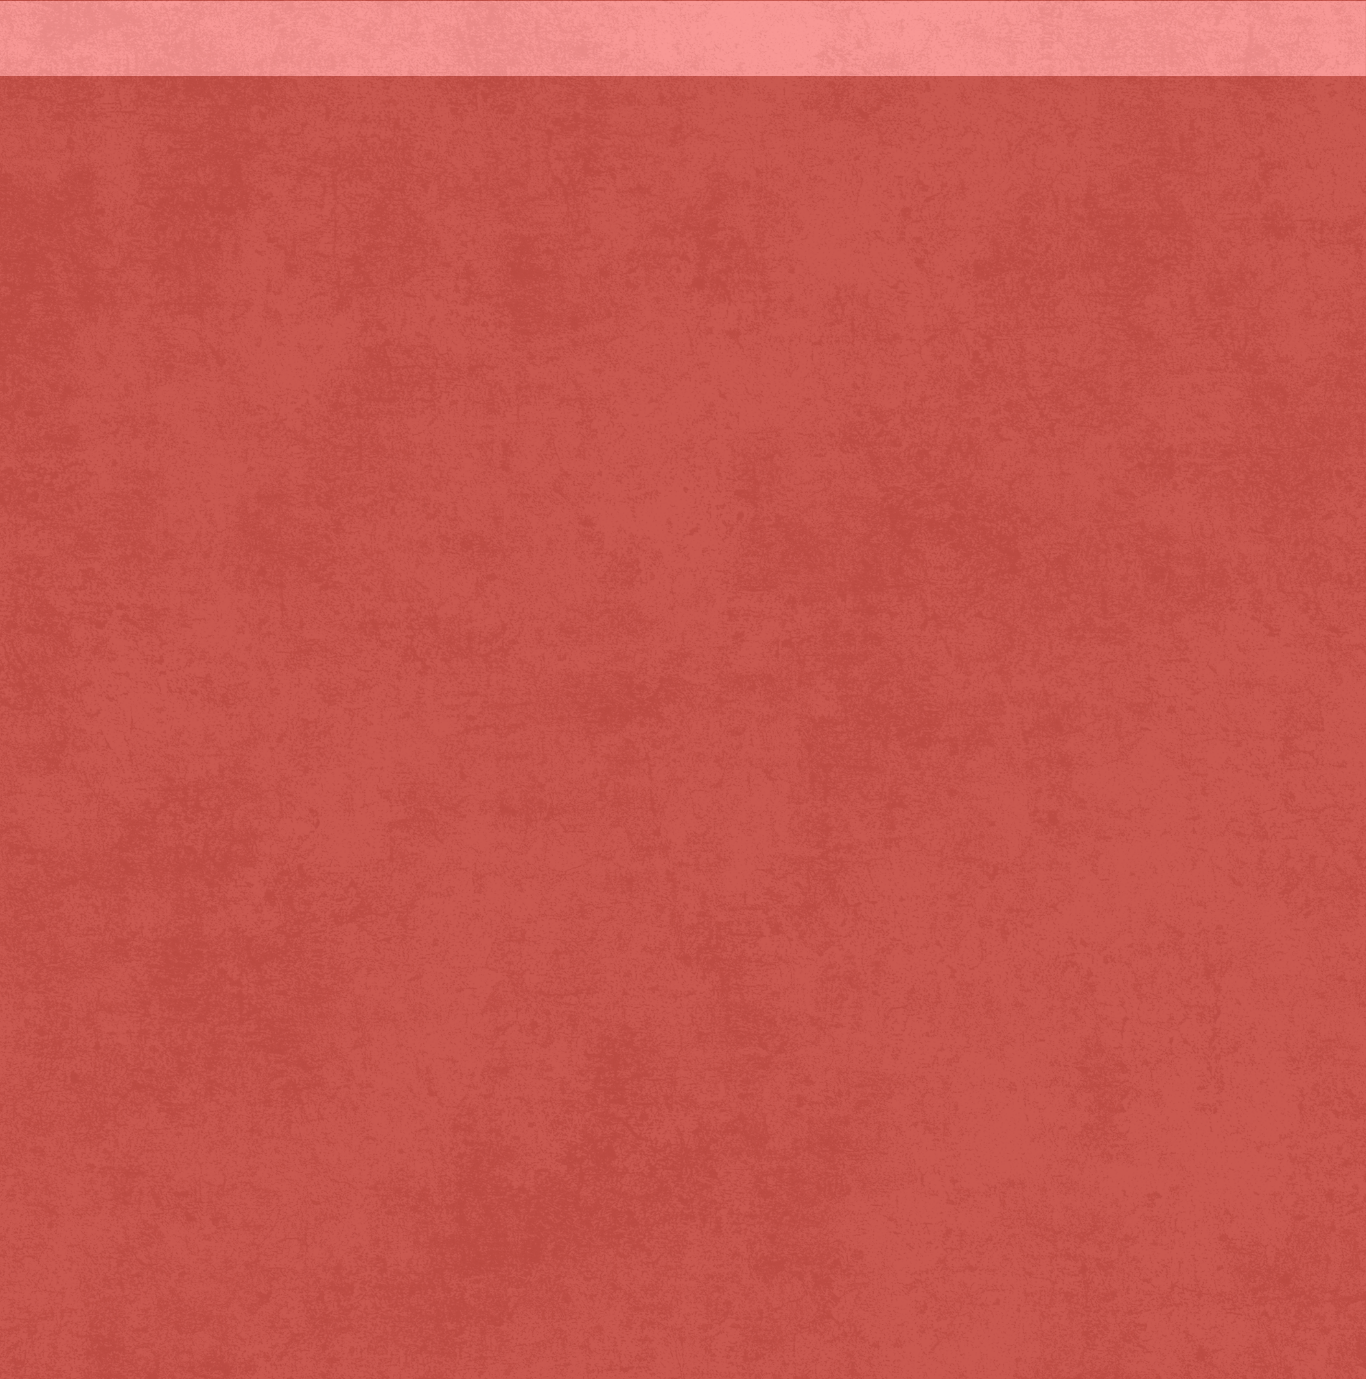
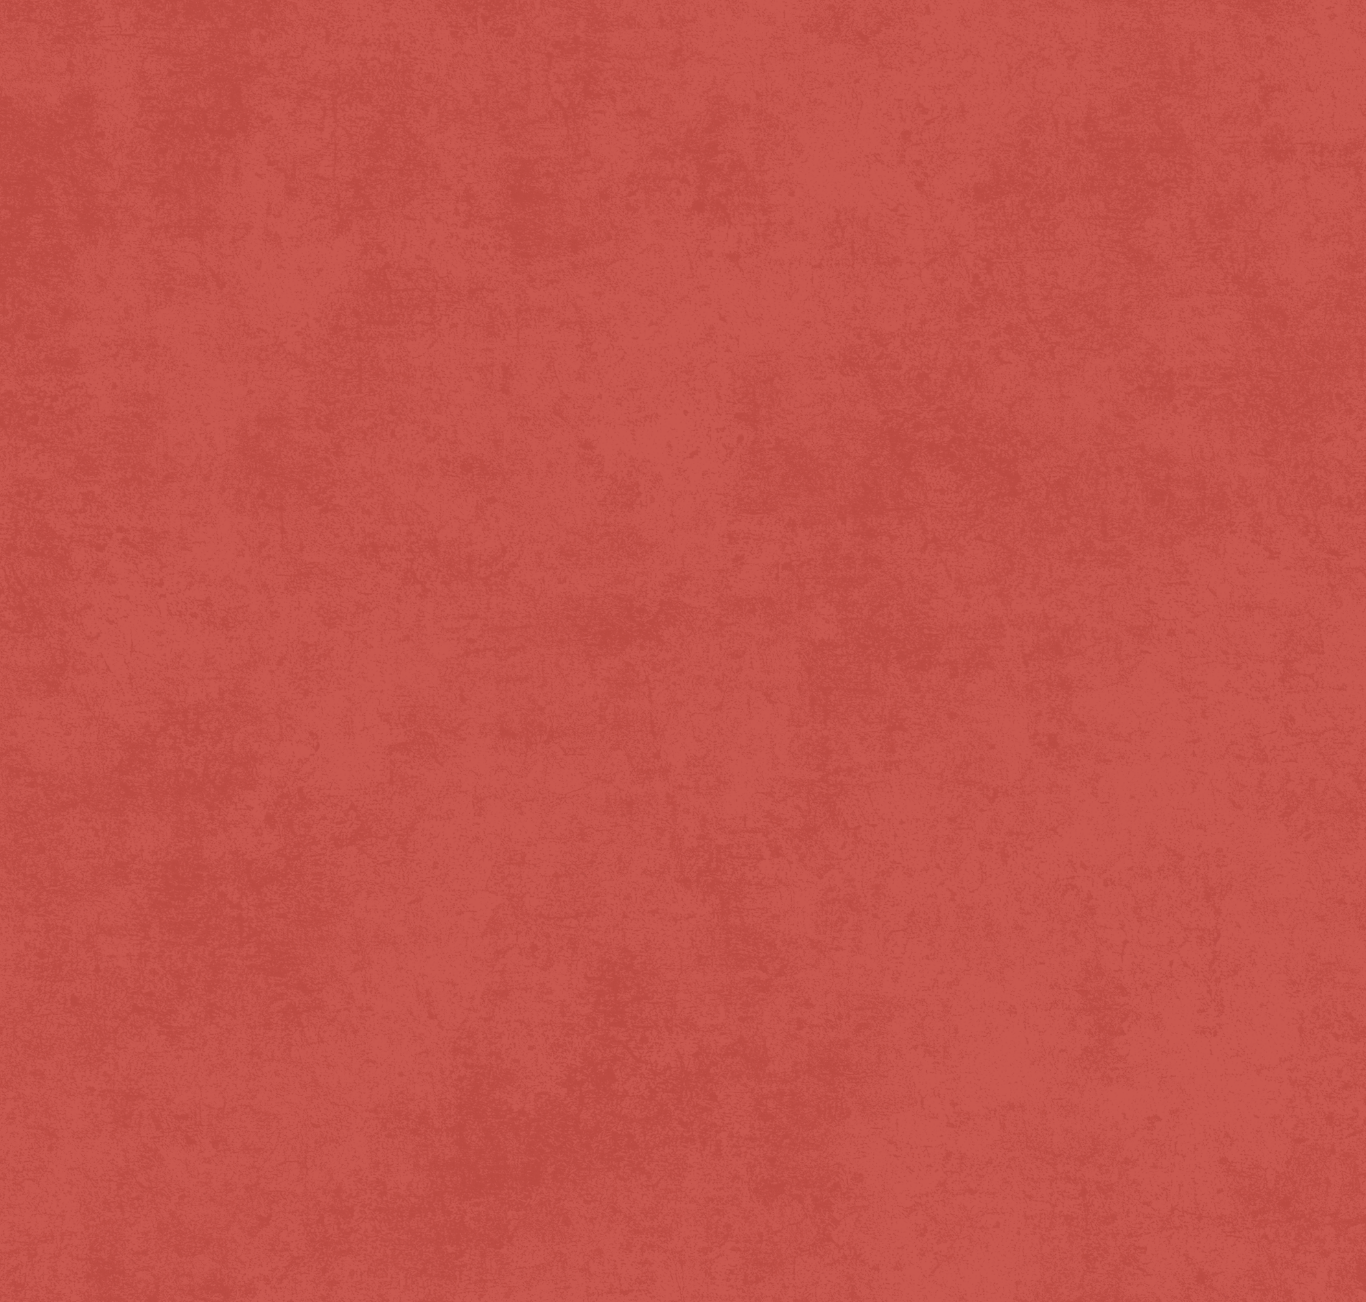
Itinerary! I was able to get the spacing, the content and images. I was also able to add in fun scroll loader as people are scrolling the site!

Changed region(s): [[0.0, 0.0, 1.0, 0.0614]]

diff --git a/wedding/templates/wedding/itinerary.html b/wedding/templates/wedding/itinerary.html
@@ -1,6 +1,98 @@
 {% extends "wedding/base.html" %}
 
 {% block content %}
-<h1>Welcome to Our Wedding Site!</h1>
-<p>This is the home page. 💍</p>
+{% load static%}
+
+<div class="itinerary">
+    <h1>Itinerary</h1>
+
+    <div class="row">
+        <div class="col-2">
+            <img src="{% static '/images/itinerary/wildFlowerMountain.png' %}" class="img-fluid" alt="description">
+        </div>
+        <div class=" col-4 text-start">
+            <h2>Wednesday, July 8, 2026</h2>
+            <h3>John and Kelly get eloped in Crested Butte, Co</h3>
+        </div>
+        <div class="col-6"></div>
+    </div>
+
+    <div class="row">
+        <div class="col-6"></div>
+        <div class=" col-4 text-end">
+            <h2>Thursday, July 9th 2026</h2>
+            <h3>Kelly &amp; John return to Denver!</h3> 
+            <h3>Family meets for a welcome dinner in Westminster.</h3>
+        </div>
+        <div class="col-2">
+            <img src="{% static '/images/itinerary/hotel.png' %}" class="img-fluid" alt="description">
+        </div>
+    </div>
+
+    <div class="row">
+        <div class="col-2">
+            <img src="{% static '/images/itinerary/greenhouse.png' %}" class="img-fluid" alt="description">
+        </div>
+        <div class=" col-4 text-start">
+            <h2>Friday, July 10th 2026</h2>
+            <h3>Denver Botanic Gardens | Woodland Mosaic &amp; Solarium</h3>
+            <h3>Wedding ceremony - 11:00am</h3>
+            <h3>Family photos &amp; Cocktail hour - 11:30am</h3>
+        </div>
+        <div class="col-6"></div>
+    </div>
+
+    <div class="row">
+        <div class="col-2">
+            <img src="{% static '/images/itinerary/dinner.png' %}" class="img-fluid" alt="description">
+        </div>
+        <div class=" col-4 text-start">
+            <h2>Friday, July 10th 2026</h2>
+            <h3>El Five
+            <h3>Dinner celebration - 5:00pm</h3>
+        </div>
+        <div class="col-6"></div>
+    </div>
+
+    <div class="row">
+        <div class="col-6"></div>
+        <div class=" col-4 text-end">
+            <h2>Saturday, July 11th 2026</h2>
+            <h3>Acreage | Lafayette, CO </h3> 
+            <h3>Lunch &amp; drinks - 11:00am - 2:00pm</h3>
+            <h4>feel free to stop by anytime during these hours </h4>
+            <h4>or do your own thing &amp; meet us back for dinner</h4>
+        </div>
+        <div class="col-2">
+            <img src="{% static '/images/itinerary/drinks.png' %}" class="img-fluid" alt="description">
+        </div>
+    </div>
+
+    <div class="row">
+        <div class="col-6"></div>
+        <div class=" col-4 text-end">
+            <h2>Saturday, July 11th 2026</h2>
+            <h3>Aspire Apartement Club Room </h3> 
+            <h4>Dinner: 4pm - 6pm </h4>
+        </div>
+        <div class="col-2">
+            <img src="{% static '/images/itinerary/tongs.png' %}" class="img-fluid" alt="description">
+        </div>
+    </div>
+
+    <div class="row">
+        <div class="col-2">
+            <img src="{% static '/images/itinerary/airplane.png' %}" class="img-fluid" alt="description">
+        </div>
+        <div class=" col-4 text-start">
+            <h2>Sunday, July 12th 2026</h2>
+            <h3>Departure </h3>
+            <h3>Thank you for joining us this weekend!</h3>
+        </div>
+        <div class="col-6"></div>
+    </div>
+</div>
+
+<script src="{% static 'js/itinerary.js' %}"></script>
+
 {% endblock %}

diff --git a/wedding/static/css/style.css b/wedding/static/css/style.css
@@ -116,7 +116,115 @@ header img {
 .ourstory h1{
   color: #efcebd;
   text-align: center;
-  font-size: 4rem;
+  font-size: 6rem;
+}
+
+.ourstory .row {
+  opacity: 0;
+  transform: translateY(40px);
+  transition: all 0.6s ease-out;
+}
+
+.ourstory .row.visible {
+  opacity: 1;
+  transform: translateY(0);
+}
+
+.itinerary {
+  background-image: url('/static/images/backgrounds/itinerary.png');
+  background-size: cover;         /* makes it fill the section */
+  background-position: center;    /* centers the image */
+  background-repeat: no-repeat;
+  padding: 20px;
+  border: #2e2e2e;
+  color: white;                   /* optional: if the bg is dark */
+}
+
+.itinerary h1{
+  color: #efcebd;
+  text-align: center;
+  font-size: 6rem;
+}
+
+.itinerary h2{
+  color: #efcebd;
+  font-size: 3rem;
+  font-weight: 800;
+}
+
+.itinerary h3{
+  color: #efcebd;
+  font-size: 1.5rem;
+  font-style: italic;
+}
+
+.itinerary h4{
+  color: #efcebd;
+  font-size: 1.5rem;
+}
+
+.itinerary .row {
+  display: flex;
+  flex-wrap: nowrap;
+  justify-content: space-between;
+  max-width: 2500px;
+  margin: 0 auto 2rem auto;
+  position: relative;
+  align-items: flex-start;
+}
+
+.itinerary .col-4.text-start {
+  display: flex;
+  justify-content: center;
+  flex-direction: column;
+  align-items: flex-end;
+  text-align: right;
+  padding-right: 3rem;
+}
+
+.itinerary .col-4.text-end {
+  display: flex;
+  justify-content: center;
+  flex-direction: column;
+  align-items: flex-start;
+  text-align: left;
+  padding-left: 3rem;
+}
+
+.itinerary .row::before {
+  content: "";
+  position: absolute;
+  top: 0;
+  bottom: 0;
+  left: 50%;
+  width: 60px; /* adjust to your vine's width */
+  transform: translateX(-50%);
+  background-image: url('/static/images/itinerary/vine.png');
+  background-repeat: repeat-y;
+  background-size: contain;
+  background-position: center;
+  z-index: 0;
+}
+
+.itinerary .row {
+  opacity: 0;
+  transform: translateY(40px);
+  transition: all 0.6s ease-out;
+}
+
+.itinerary .row.visible {
+  opacity: 1;
+  transform: translateY(0);
+}
+
+.rsvp {
+  background-image: url('/static/images/backgrounds/RSVP.png');
+  background-size: cover;         /* makes it fill the section */
+  background-position: center;    /* centers the image */
+  background-repeat: no-repeat;
+  padding: 20px;
+  border: #2e2e2e;
+  color: white;                   /* optional: if the bg is dark */
 }
 
 .photo-gallery {

diff --git a/wedding/templates/wedding/rsvp.html b/wedding/templates/wedding/rsvp.html
@@ -1,37 +1,27 @@
 {% extends "wedding/base.html" %}
 
 {% block content %}
-<div class="container mt-5">
-  <h1 class="mb-4">RSVP</h1>
-
-  <section class="mb-4">
-    <h3>Name</h3>
-    <p></p>
-  </section>
-
-  <section class="mb-4">
-    <h3>Contact Information</h3>
-    <p></p>
-  </section>
-
-  <section class="mb-4">
-    <h3>Response</h3>
-    <p></p>
-  </section>
-
-  <section class="mb-4">
-    <h3>Dietary Restrictions</h3>
-    <p></p>
-  </section>
-
-  <section class="mb-4">
-    <h3>Accommodations</h3>
-    <p></p>
-  </section>
-
-  <section class="mb-4">
-    <h3>Advice for the Couple</h3>
-    <p></p>
-  </section>
-</div>
+{% load static%}
+<div class="rsvp">
+  <div class="mb-3">
+    <label for="exampleFormControlInput1" class="form-label">Email address</label>
+    <input type="email" class="form-control" id="exampleFormControlInput1" placeholder="name@example.com">
+  </div>
+  <div class="mb-3">
+    <label for="exampleFormControlInput1" class="form-label">Email address</label>
+    <input type="email" class="form-control" id="exampleFormControlInput1" placeholder="name@example.com">
+  </div>
+  <div class="mb-3">
+    <label for="exampleFormControlInput1" class="form-label">Email address</label>
+    <input type="email" class="form-control" id="exampleFormControlInput1" placeholder="name@example.com">
+  </div>
+  <div class="mb-3">
+    <label for="exampleFormControlInput1" class="form-label">Email address</label>
+    <input type="email" class="form-control" id="exampleFormControlInput1" placeholder="name@example.com">
+  </div>
+  <div class="mb-3">
+    <label for="exampleFormControlTextarea1" class="form-label">Example textarea</label>
+    <textarea class="form-control" id="exampleFormControlTextarea1" rows="3"></textarea>
+  </div>
+<div>
 {% endblock %}

diff --git a/wedding/static/js/itinerary.js b/wedding/static/js/itinerary.js
@@ -1,0 +1,17 @@
+document.addEventListener("DOMContentLoaded", () => {
+  const observer = new IntersectionObserver(entries => {
+    entries.forEach(entry => {
+      if (entry.isIntersecting) {
+        entry.target.classList.add("visible");
+      }
+    });
+  }, {
+    threshold: 0.1
+  });
+
+  const sections = ["itinerary", "ourstory"];
+  sections.forEach(section => {
+    const rows = document.querySelectorAll(`.${section} .row`);
+    rows.forEach(row => observer.observe(row));
+  });
+});

diff --git a/wedding/templates/wedding/our_story.html b/wedding/templates/wedding/our_story.html
@@ -66,4 +66,7 @@
     </div>
   </div>
 </div>
+
+<script src="{% static 'js/itinerary.js' %}"></script>
+
 {% endblock %}
